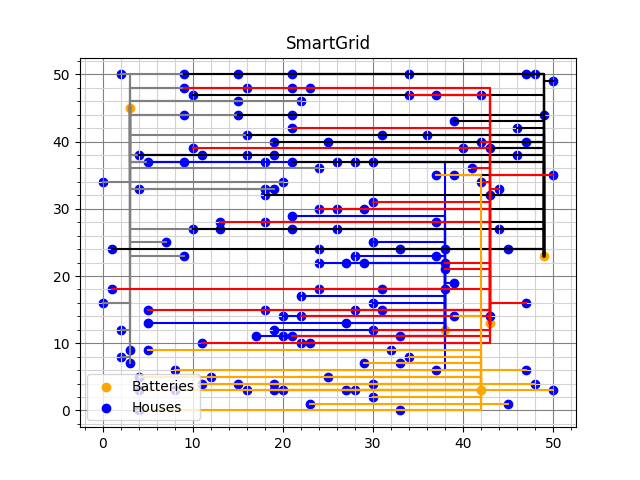
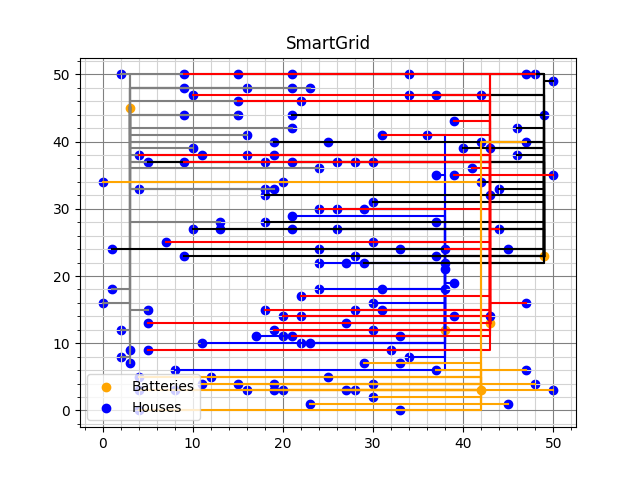
random house shuffle greedy

Changed region(s): [[0.1562, 0.125, 0.8438, 0.5625], [0.1875, 0.5938, 0.75, 0.7812]]

diff --git a/code/algorithms/a_star.py b/code/algorithms/a_star.py
@@ -3,6 +3,11 @@
 2. Search Function:
 - Define start node. in our case, random house 
 - Define movement in term of relative position: possibilities are left, right and ahead
-- Look for the lowest cost grid-line
+- Look for the lowest cost grid-line. Check:
+    -Not on the 'already visited' list
+    -If battery --> stop if yes 
 - Create the new node with the parent as the current node and update the position of the node.
 """
+
+Class Node():
+    

diff --git a/code/algorithms/greedy.py b/code/algorithms/greedy.py
@@ -79,7 +79,7 @@ class Greedy:
                 self.replace_connections()
 
         # If everything is good, start laying cables
-        for house in self.grid.houses.values():
+        for house in random.shuffle(self.grid.houses.values()):
             closest_battery_id = house.battery_distances[house.rank][0]
             closest_battery = self.grid.batteries[closest_battery_id]
             house.battery = closest_battery_id
